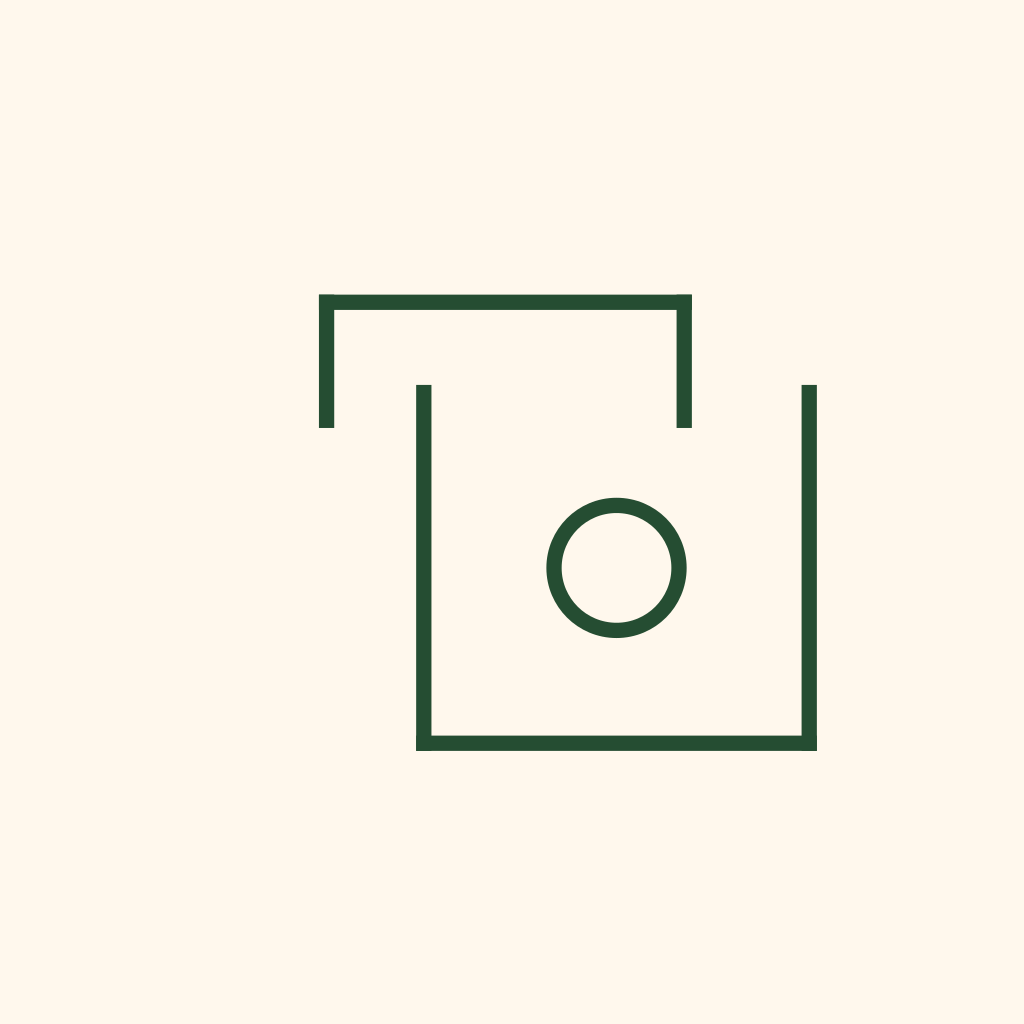
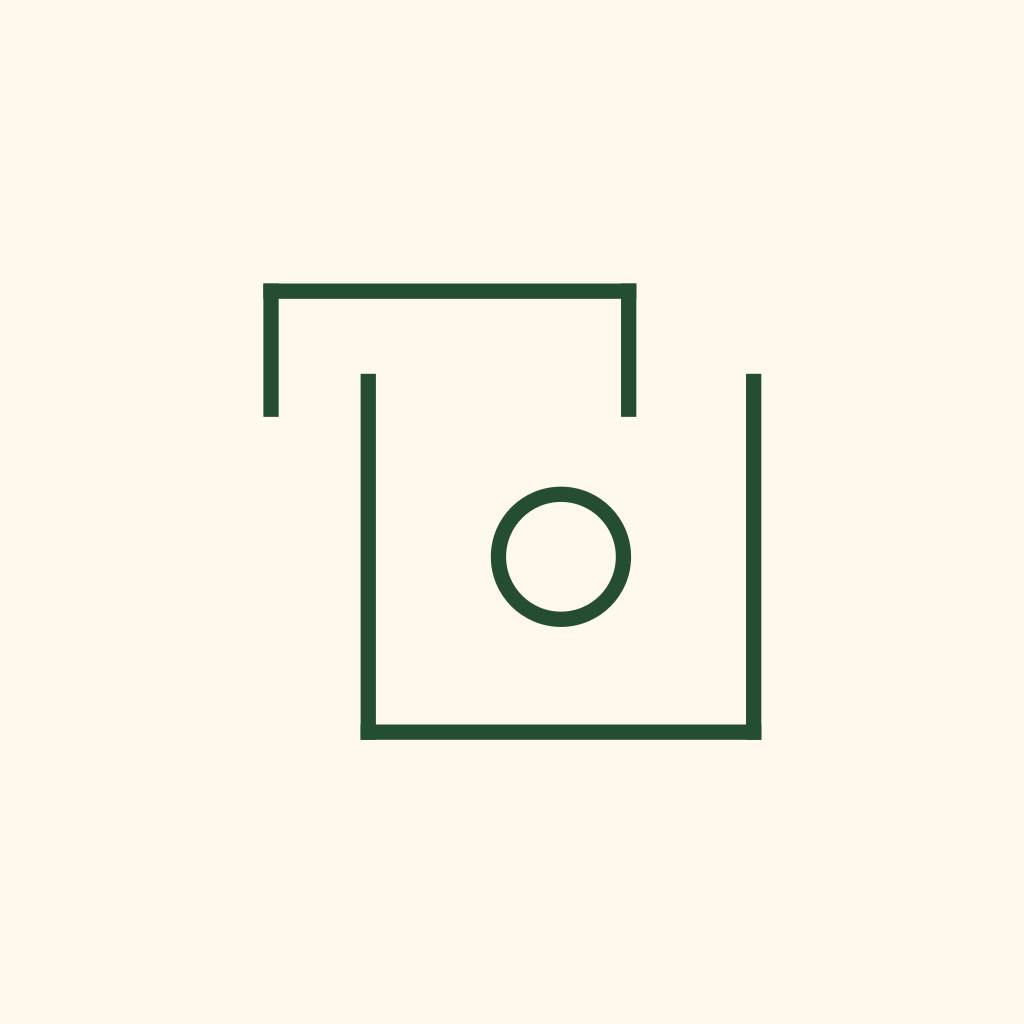
Center brand mark on canvas + seed 26 launch cuisines
Brand mark:
- Whole composition (two brackets + hollow circle) was offset ~80px
  right and ~16px down of canvas center on the 1024×1024 master.
  Shifted the geometry so the bounding box (x 165..860, y 194..829)
  is dead-center on (512.5, 511.5). Same shift applied to icon-web.svg
  and the inline EmroozMark in the web header (24-unit viewBox).
- Regenerated every mobile PNG (icon, adaptive-icon, splash-icon,
  favicon) + every web SVG/PNG (favicon.svg, icon-192/512.svg,
  favicon-16/32.png, apple-touch-icon.png, icon-192/512.png).

Launch cuisines:
- Added supabase/seed-launch-cuisines.sql — 26 countries + 26 cuisines
  from CLAUDE.md §30, idempotent (`on conflict do nothing`). Works
  against local Supabase and any hosted project.
- Populated the local DB. `/cuisines` and `/cuisines/[slug]` now
  render taxonomy; recipe rows still empty (arrive via the admin
  imports pipeline).

Changed region(s): [[0.25, 0.25, 0.8125, 0.75], [0.4688, 0.4688, 0.6875, 0.625]]

diff --git a/apps/web/src/app/layout.tsx b/apps/web/src/app/layout.tsx
@@ -342,18 +342,18 @@ function EmroozMark() {
   return (
     <svg width="30" height="30" viewBox="0 0 24 24" fill="none" aria-hidden="true">
       <g stroke="#254D32" strokeWidth="1" strokeLinecap="square">
-        {/* Top bracket ⊓ — shifted further right */}
-        <line x1="6" y1="6" x2="18" y2="6" />
-        <line x1="6" y1="6" x2="6" y2="10" />
-        <line x1="18" y1="6" x2="18" y2="10" />
+        {/* Top bracket ⊓ (x 4..16, y 6..10) */}
+        <line x1="4" y1="6" x2="16" y2="6" />
+        <line x1="4" y1="6" x2="4" y2="10" />
+        <line x1="16" y1="6" x2="16" y2="10" />
 
-        {/* Lower open rectangle ⊔ — shallower (bottom raised from 22 to 19) */}
-        <line x1="9" y1="9" x2="9" y2="19" />
-        <line x1="9" y1="19" x2="22" y2="19" />
-        <line x1="22" y1="9" x2="22" y2="19" />
+        {/* Lower open rectangle ⊔ (x 7..20, y 9..19) */}
+        <line x1="7" y1="9" x2="7" y2="19" />
+        <line x1="7" y1="19" x2="20" y2="19" />
+        <line x1="20" y1="9" x2="20" y2="19" />
 
-        {/* Hollow circle — dead-center of the lower rectangle (x 9..22, y 9..19) */}
-        <circle cx="15.5" cy="14" r="2" fill="none" />
+        {/* Hollow circle — dead-center of the lower rectangle (x 7..20, y 9..19) */}
+        <circle cx="13.5" cy="14" r="2" fill="none" />
       </g>
     </svg>
   );
